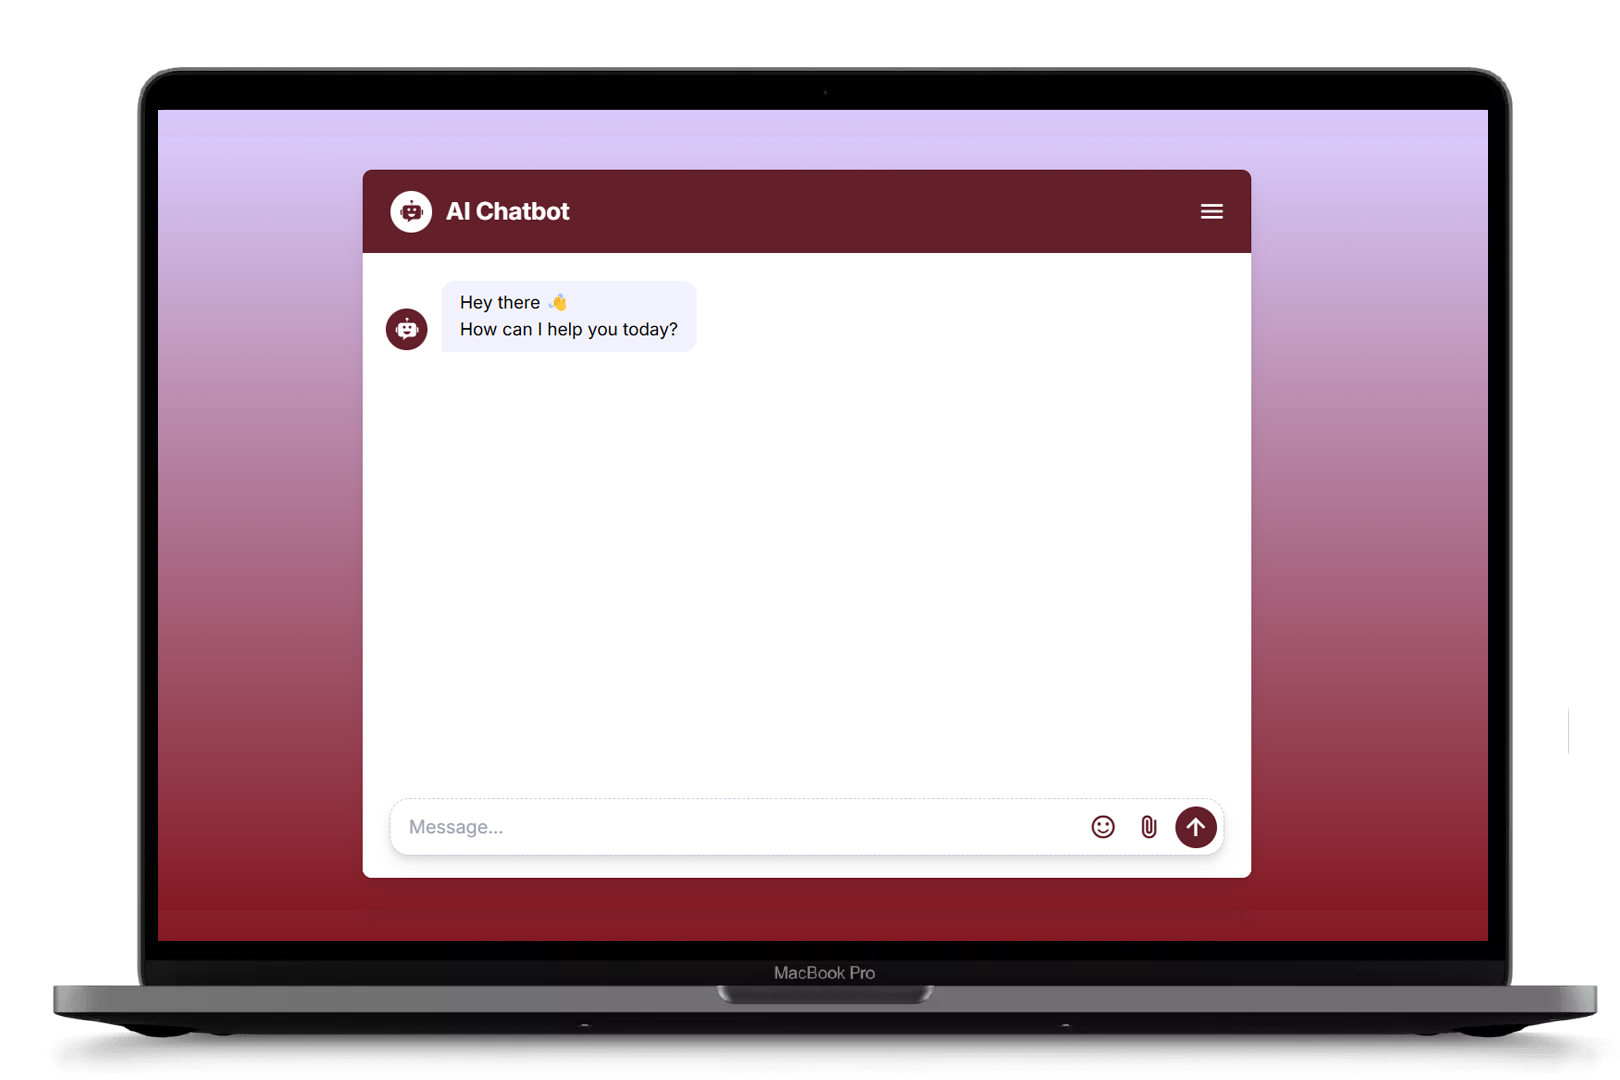
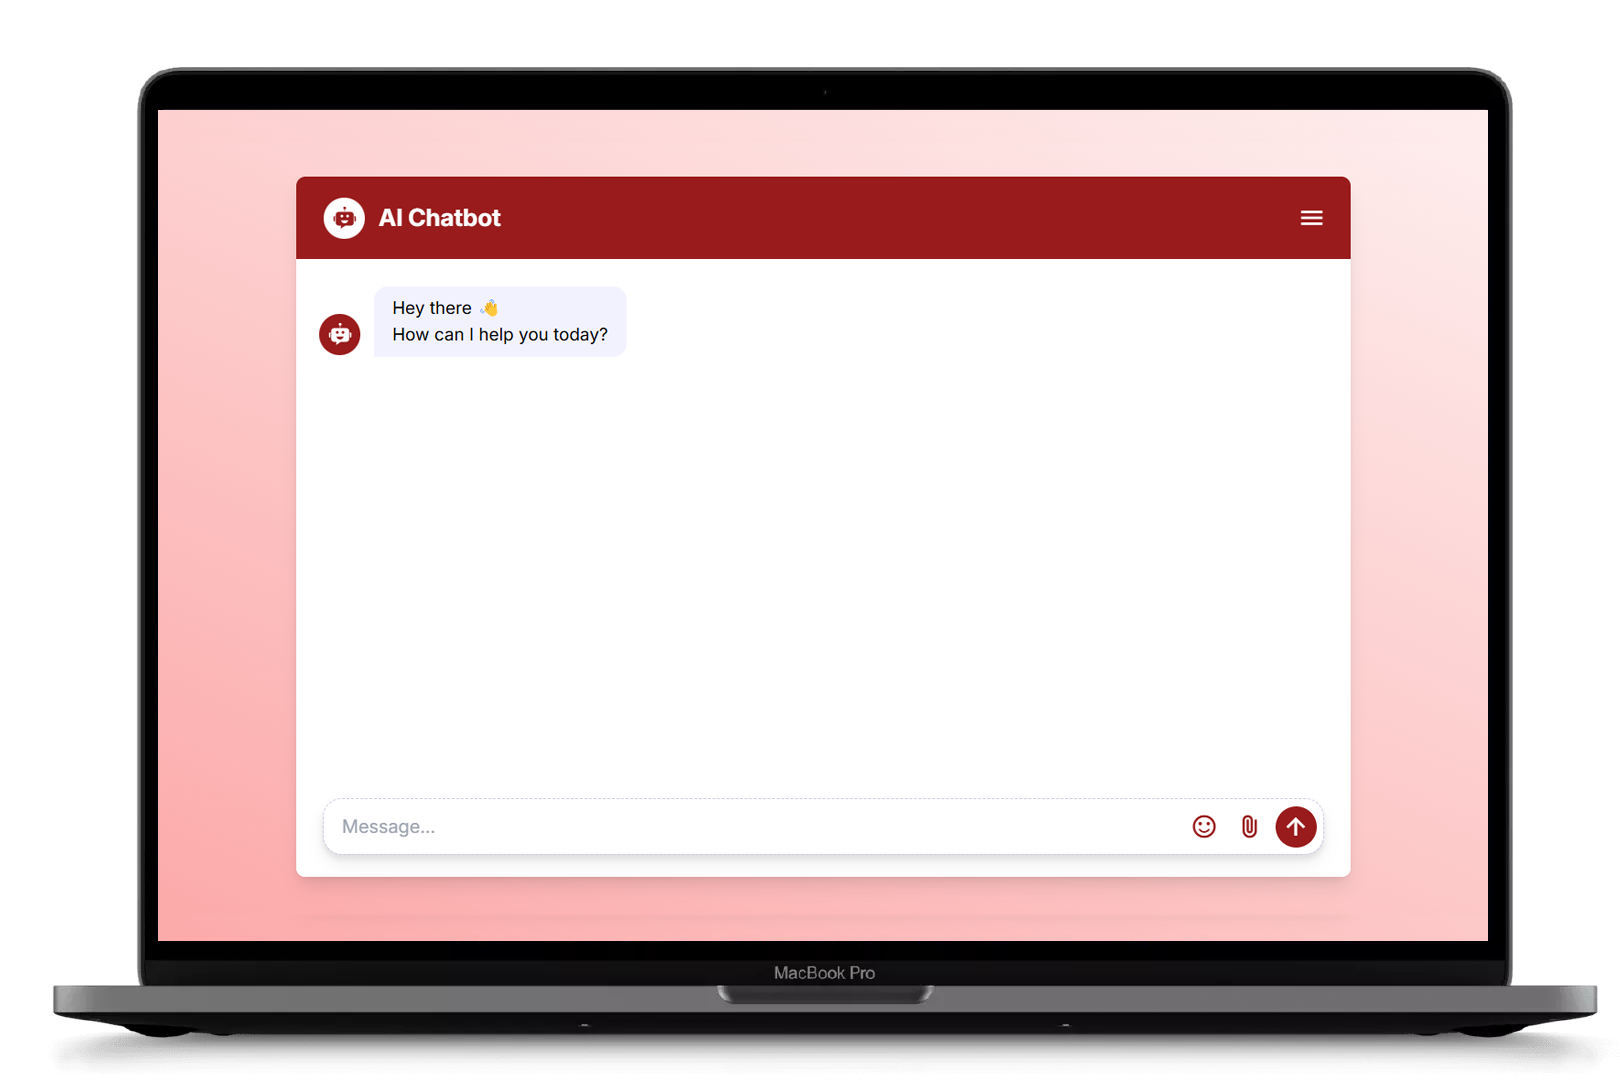
Portfolio Improvement 81

diff --git a/index.html b/index.html
@@ -459,7 +459,7 @@
         <div class="not-show-right-special h-[1.5px] left-1/4 right-1/2 bg-[#0f6dbf] absolute top-1/2 hidden sm:block"></div>
 
         <a href="https://ai-chatbot-c2.netlify.app/" target="_blank" class="absolute left-1/2 -translate-x-1/2 z-10 hidden sm:block">
-          <div class="h-4 w-4 rounded-full border-[3px] border-[#fc0054] dark:bg-[#111] bg-[#fff] hover:scale-125 ease-in-out duration-100"></div>
+          <div class="h-4 w-4 rounded-full border-[3px] border-red-600 dark:bg-[#111] bg-[#fff] hover:scale-125 ease-in-out duration-100"></div>
         </a>
 
         <!-- Project 3 image -->
@@ -468,7 +468,7 @@
           <div class="relative group hover:scale-105 ease-in-out duration-200">
 
             <!-- Project 3 image Popupbox -->
-            <span class="flex bg-[#631f2a] dark:bg-[#631f2a] text-[#fff] absolute top-5 left-1/2 -translate-x-1/2 px-3 py-1 rounded w-max text-sm md:text-base items-center gap-1 after:content-[''] after:w-3 after:h-3 sm:after:w-4 sm:after:h-4 after:bg-inherit after:absolute after:left-1/2 after:-translate-x-1/2 after:rotate-45 after:-bottom-1 sm:after:-bottom-2 group-hover:-top-8 sm:group-hover:-top-9 ease-jump duration-200">AI Chatbot
+            <span class="flex bg-red-700 dark:bg-red-600 text-[#fff] absolute top-5 left-1/2 -translate-x-1/2 px-3 py-1 rounded w-max text-sm md:text-base items-center gap-1 after:content-[''] after:w-3 after:h-3 sm:after:w-4 sm:after:h-4 after:bg-inherit after:absolute after:left-1/2 after:-translate-x-1/2 after:rotate-45 after:-bottom-1 sm:after:-bottom-2 group-hover:-top-8 sm:group-hover:-top-9 ease-jump duration-200">AI Chatbot
               <svg xmlns="http://www.w3.org/2000/svg" width="16" height="16" viewBox="0 0 24 24" fill="none" stroke="currentColor" stroke-width="2" stroke-linecap="round" stroke-linejoin="round" class="feather feather-external-link">
                 <path d="M18 13v6a2 2 0 0 1-2 2H5a2 2 0 0 1-2-2V8a2 2 0 0 1 2-2h6"></path>
                 <polyline points="15 3 21 3 21 9"></polyline>
@@ -487,8 +487,8 @@
 
         <!-- Project 3 Details -->
         <div class="not-show-left-special w-full">
-          <h3 class="text-[#631f2a] dark:text-[#631f2a] font-bold text-2xl md:text-4xl">AI Chatbot</h3>
-          <span class="text-[#631f2a] dark:text-[#631f2a] text-base md:text-lg">(Chatbot)</span>
+          <h3 class="text-red-700 dark:text-red-600 font-bold text-2xl md:text-4xl">AI Chatbot</h3>
+          <span class="text-red-700 dark:text-red-600 text-base md:text-lg">(Chatbot)</span>
           <p class="text-justify text-sm md:text-base mt-2 text-[#1f1f1f] dark:text-[#fff]">
             Play the classic Simon Says game online with multiple difficulty levels and engaging visuals. Test your memory and reflexes in our exciting online Simon Says game!
           </p>
@@ -496,10 +496,13 @@
           <!-- Project 3 Hastag -->
           <ul class="flex flex-wrap gap-2 mt-4 text-[#1f1f1f] dark:text-[#fff]">
             <li class="border rounded-[50px] border-[#999] px-[10px] py-[5px] text-xs md:text-sm">
-              #html
+              #react.js
             </li>
             <li class="border rounded-[50px] border-[#999] px-[10px] py-[5px] text-xs md:text-sm">
-              #vanillacss
+              #gemini-api
+            </li>
+            <li class="border rounded-[50px] border-[#999] px-[10px] py-[5px] text-xs md:text-sm">
+              #tailwindcss
             </li>
             <li class="border rounded-[50px] border-[#999] px-[10px] py-[5px] text-xs md:text-sm">
               #javascript
@@ -516,8 +519,8 @@
 
         <!-- Project 4 Details -->
         <div class="not-show-left-special w-full">
-          <h3 class="dark:text-[#ffffc7] text-[#fc0054] font-bold text-2xl md:text-4xl">Simon Says Game</h3>
-          <span class="dark:text-[#ffffc7] text-[#fc0054] text-base md:text-lg">(Brain Game)</span>
+          <h3 class="dark:text-[#ffe342] text-[#fc0054] font-bold text-2xl md:text-4xl">Simon Says Game</h3>
+          <span class="dark:text-[#ffe342] text-[#fc0054] text-base md:text-lg">(Brain Game)</span>
           <p class="text-justify text-sm md:text-base mt-2 text-[#1f1f1f] dark:text-[#fff]">
             Play the classic Simon Says game online with multiple difficulty levels and engaging visuals. Test your memory and reflexes in our exciting online Simon Says game!
           </p>
@@ -543,7 +546,7 @@
         <div class="not-show-right-special h-[1.5px] left-1/2 right-1/4 bg-[#0f6dbf] absolute top-1/2 hidden sm:block"></div>
 
         <a href="https://simonsays-chandanchaudhary.netlify.app/" target="_blank" class="absolute left-1/2 -translate-x-1/2 z-10 hidden sm:block">
-          <div class="h-4 w-4 rounded-full border-[3px] dark:border-[#ffffc7] border-[#fc0054] dark:bg-[#111] bg-[#fff] hover:scale-125 ease-in-out duration-100"></div>
+          <div class="h-4 w-4 rounded-full border-[3px] dark:border-[#ffe342] border-[#fc0054] dark:bg-[#111] bg-[#fff] hover:scale-125 ease-in-out duration-100"></div>
         </a>
 
         <!-- Project Image 4 -->
@@ -552,7 +555,7 @@
           <div class="relative group hover:scale-105 ease-in-out duration-200 ml-auto">
 
             <!-- Project 4 image Popupbox -->
-            <span class="flex dark:bg-[#ffffc7] bg-[#fc0054] dark:text-black text-[#fff] absolute top-5 left-1/2 -translate-x-1/2 px-3 py-1 rounded w-max text-sm md:text-base items-center gap-1 after:content-[''] after:w-3 after:h-3 sm:after:w-4 sm:after:h-4 after:bg-inherit after:absolute after:left-1/2 after:-translate-x-1/2 after:rotate-45 after:-bottom-1 sm:after:-bottom-2 group-hover:-top-8 sm:group-hover:-top-9 ease-jump duration-200">Simon Says Game
+            <span class="flex dark:bg-[#ffe342] bg-[#fc0054] dark:text-black text-[#fff] absolute top-5 left-1/2 -translate-x-1/2 px-3 py-1 rounded w-max text-sm md:text-base items-center gap-1 after:content-[''] after:w-3 after:h-3 sm:after:w-4 sm:after:h-4 after:bg-inherit after:absolute after:left-1/2 after:-translate-x-1/2 after:rotate-45 after:-bottom-1 sm:after:-bottom-2 group-hover:-top-8 sm:group-hover:-top-9 ease-jump duration-200">Simon Says Game
 
               <svg xmlns="http://www.w3.org/2000/svg" width="16" height="16" viewBox="0 0 24 24" fill="none" stroke="currentColor" stroke-width="2" stroke-linecap="round" stroke-linejoin="round" class="feather feather-external-link">
                 <path d="M18 13v6a2 2 0 0 1-2 2H5a2 2 0 0 1-2-2V8a2 2 0 0 1 2-2h6"></path>
@@ -586,7 +589,7 @@
           <div class="relative group hover:scale-105 ease-in-out duration-200">
 
             <!-- Project 5 image Popupbox -->
-            <span class="invisible group-hover:visible group-hover:flex bg-[#47afa1] dark:text-black text-[#fff] absolute top-5 left-1/2 -translate-x-1/2 px-1 sm:px-3 py-1 rounded text-sm md:text-base w-max items-center gap-1 after:content-[''] after:w-3 after:h-3 sm:after:w-4 sm:after:h-4 after:bg-inherit after:absolute after:left-1/2 after:-translate-x-1/2 after:rotate-45 after:-bottom-1 sm:after:-bottom-2 group-hover:-top-10 sm:group-hover:-top-12 ease-jump duration-200">Chatting Application
+            <span class="invisible group-hover:visible group-hover:flex bg-[#47afa1] dark:text-black text-[#fff] absolute top-5 left-1/2 -translate-x-1/2 px-1 sm:px-3 py-1 rounded text-sm md:text-base w-max items-center gap-1 after:content-[''] after:w-3 after:h-3 sm:after:w-4 sm:after:h-4 after:bg-inherit after:absolute after:left-1/2 after:-translate-x-1/2 after:rotate-45 after:-bottom-1 sm:after:-bottom-2 group-hover:-top-10 sm:group-hover:-top-12 ease-jump duration-200">Chatting App
               <svg xmlns="http://www.w3.org/2000/svg" width="16" height="16" viewBox="0 0 24 24" fill="none" stroke="currentColor" stroke-width="2" stroke-linecap="round" stroke-linejoin="round" class="feather feather-external-link">
                 <path d="M18 13v6a2 2 0 0 1-2 2H5a2 2 0 0 1-2-2V8a2 2 0 0 1 2-2h6"></path>
                 <polyline points="15 3 21 3 21 9"></polyline>

diff --git a/output.css b/output.css
@@ -2430,11 +2430,6 @@ video {
   border-color: rgb(71 175 161 / var(--tw-border-opacity, 1));
 }
 
-.border-\[\#87cefa\] {
-  --tw-border-opacity: 1;
-  border-color: rgb(135 206 250 / var(--tw-border-opacity, 1));
-}
-
 .border-\[\#999\] {
   --tw-border-opacity: 1;
   border-color: rgb(153 153 153 / var(--tw-border-opacity, 1));
@@ -2469,6 +2464,11 @@ video {
   border-color: transparent;
 }
 
+.border-red-600 {
+  --tw-border-opacity: 1;
+  border-color: rgb(220 38 38 / var(--tw-border-opacity, 1));
+}
+
 .bg-\[\#00bdad\] {
   --tw-bg-opacity: 1;
   background-color: rgb(0 189 173 / var(--tw-bg-opacity, 1));
@@ -2492,11 +2492,6 @@ video {
 .bg-\[\#111\] {
   --tw-bg-opacity: 1;
   background-color: rgb(17 17 17 / var(--tw-bg-opacity, 1));
-}
-
-.bg-\[\#1788ae\] {
-  --tw-bg-opacity: 1;
-  background-color: rgb(23 136 174 / var(--tw-bg-opacity, 1));
 }
 
 .bg-\[\#4595eb\] {
@@ -2594,6 +2589,11 @@ video {
   background-color: rgb(255 0 0 / var(--tw-bg-opacity, 1));
 }
 
+.bg-red-800 {
+  --tw-bg-opacity: 1;
+  background-color: rgb(153 27 27 / var(--tw-bg-opacity, 1));
+}
+
 .bg-transparent {
   background-color: transparent;
 }
@@ -2603,9 +2603,9 @@ video {
   background-color: rgb(255 255 255 / var(--tw-bg-opacity, 1));
 }
 
-.bg-\[\#631f2a\] {
+.bg-red-700 {
   --tw-bg-opacity: 1;
-  background-color: rgb(99 31 42 / var(--tw-bg-opacity, 1));
+  background-color: rgb(185 28 28 / var(--tw-bg-opacity, 1));
 }
 
 .bg-gradient-to-l {
@@ -3128,11 +3128,6 @@ video {
   color: rgb(17 17 17 / var(--tw-text-opacity, 1));
 }
 
-.text-\[\#1788ae\] {
-  --tw-text-opacity: 1;
-  color: rgb(23 136 174 / var(--tw-text-opacity, 1));
-}
-
 .text-\[\#1f1f1f\] {
   --tw-text-opacity: 1;
   color: rgb(31 31 31 / var(--tw-text-opacity, 1));
@@ -3222,14 +3217,19 @@ video {
   color: rgb(239 68 68 / var(--tw-text-opacity, 1));
 }
 
+.text-red-800 {
+  --tw-text-opacity: 1;
+  color: rgb(153 27 27 / var(--tw-text-opacity, 1));
+}
+
 .text-white {
   --tw-text-opacity: 1;
   color: rgb(255 255 255 / var(--tw-text-opacity, 1));
 }
 
-.text-\[\#631f2a\] {
+.text-red-700 {
   --tw-text-opacity: 1;
-  color: rgb(99 31 42 / var(--tw-text-opacity, 1));
+  color: rgb(185 28 28 / var(--tw-text-opacity, 1));
 }
 
 .underline {
@@ -4173,9 +4173,9 @@ video {
   border-color: rgb(17 17 17 / var(--tw-border-opacity, 1));
 }
 
-.dark\:border-\[\#ffffc7\]:is(.dark *) {
+.dark\:border-\[\#ffe342\]:is(.dark *) {
   --tw-border-opacity: 1;
-  border-color: rgb(255 255 199 / var(--tw-border-opacity, 1));
+  border-color: rgb(255 227 66 / var(--tw-border-opacity, 1));
 }
 
 .dark\:border-gray-600:is(.dark *) {
@@ -4208,24 +4208,24 @@ video {
   background-color: rgb(53 53 53 / var(--tw-bg-opacity, 1));
 }
 
+.dark\:bg-\[\#631f2a\]:is(.dark *) {
+  --tw-bg-opacity: 1;
+  background-color: rgb(99 31 42 / var(--tw-bg-opacity, 1));
+}
+
 .dark\:bg-\[\#7ed9f7\]:is(.dark *) {
   --tw-bg-opacity: 1;
   background-color: rgb(126 217 247 / var(--tw-bg-opacity, 1));
 }
 
-.dark\:bg-\[\#d93868\]:is(.dark *) {
+.dark\:bg-\[\#ffe342\]:is(.dark *) {
   --tw-bg-opacity: 1;
-  background-color: rgb(217 56 104 / var(--tw-bg-opacity, 1));
+  background-color: rgb(255 227 66 / var(--tw-bg-opacity, 1));
 }
 
 .dark\:bg-\[\#fff\]:is(.dark *) {
   --tw-bg-opacity: 1;
   background-color: rgb(255 255 255 / var(--tw-bg-opacity, 1));
-}
-
-.dark\:bg-\[\#ffffc7\]:is(.dark *) {
-  --tw-bg-opacity: 1;
-  background-color: rgb(255 255 199 / var(--tw-bg-opacity, 1));
 }
 
 .dark\:bg-gray-700:is(.dark *) {
@@ -4238,9 +4238,14 @@ video {
   background-color: rgb(31 41 55 / var(--tw-bg-opacity, 1));
 }
 
-.dark\:bg-\[\#631f2a\]:is(.dark *) {
+.dark\:bg-red-600:is(.dark *) {
   --tw-bg-opacity: 1;
-  background-color: rgb(99 31 42 / var(--tw-bg-opacity, 1));
+  background-color: rgb(220 38 38 / var(--tw-bg-opacity, 1));
+}
+
+.dark\:bg-red-300:is(.dark *) {
+  --tw-bg-opacity: 1;
+  background-color: rgb(252 165 165 / var(--tw-bg-opacity, 1));
 }
 
 .dark\:bg-gradient-to-l:is(.dark *) {
@@ -4267,9 +4272,9 @@ video {
   color: rgb(17 17 17 / var(--tw-text-opacity, 1));
 }
 
-.dark\:text-\[\#d93868\]:is(.dark *) {
+.dark\:text-\[\#ffe342\]:is(.dark *) {
   --tw-text-opacity: 1;
-  color: rgb(217 56 104 / var(--tw-text-opacity, 1));
+  color: rgb(255 227 66 / var(--tw-text-opacity, 1));
 }
 
 .dark\:text-\[\#fff\]:is(.dark *) {
@@ -4279,11 +4284,6 @@ video {
 
 .dark\:text-\[\#ffff\]:is(.dark *) {
   color: #ffff;
-}
-
-.dark\:text-\[\#ffffc7\]:is(.dark *) {
-  --tw-text-opacity: 1;
-  color: rgb(255 255 199 / var(--tw-text-opacity, 1));
 }
 
 .dark\:text-black:is(.dark *) {
@@ -4311,14 +4311,14 @@ video {
   color: rgb(75 85 99 / var(--tw-text-opacity, 1));
 }
 
+.dark\:text-red-600:is(.dark *) {
+  --tw-text-opacity: 1;
+  color: rgb(220 38 38 / var(--tw-text-opacity, 1));
+}
+
 .dark\:text-white:is(.dark *) {
   --tw-text-opacity: 1;
   color: rgb(255 255 255 / var(--tw-text-opacity, 1));
-}
-
-.dark\:text-\[\#631f2a\]:is(.dark *) {
-  --tw-text-opacity: 1;
-  color: rgb(99 31 42 / var(--tw-text-opacity, 1));
 }
 
 .dark\:drop-shadow-\[0_0px_20px_rgba\(59\2c 130\2c 246\2c 0\.3\)\]:is(.dark *) {

diff --git a/src/script.js b/src/script.js
@@ -140,7 +140,7 @@ window.addEventListener("scroll", () => {
     }
 })
 
-// Curtom Cursor
+// Custom Cursor
 const cursor = document.querySelector(".coursor");
 const cursorDot = document.querySelector(".coursor-dot");
 const cursorOutline = document.querySelector(".coursor-outline");
